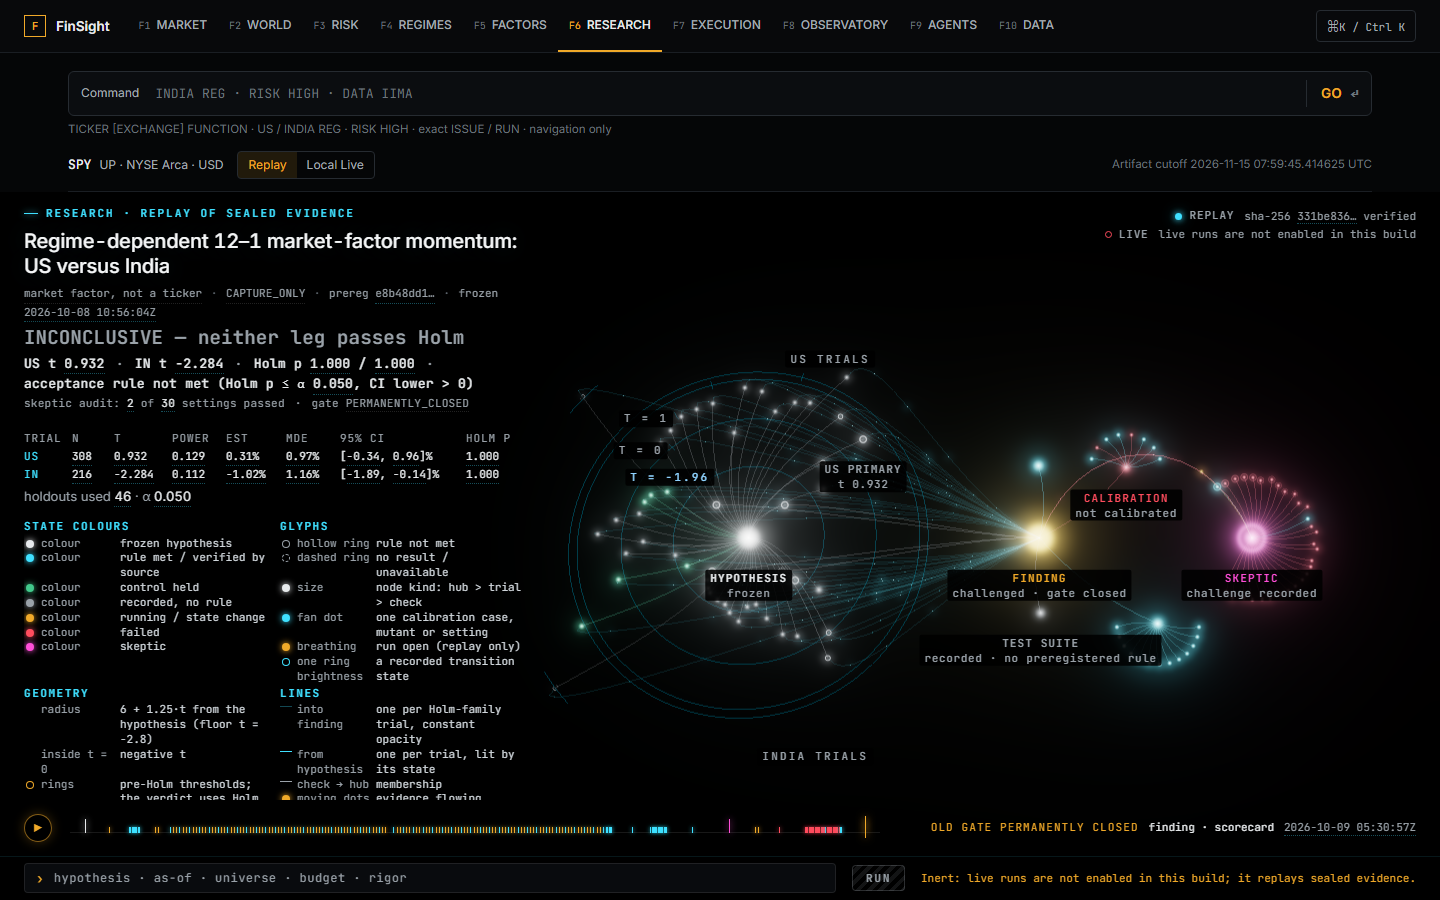
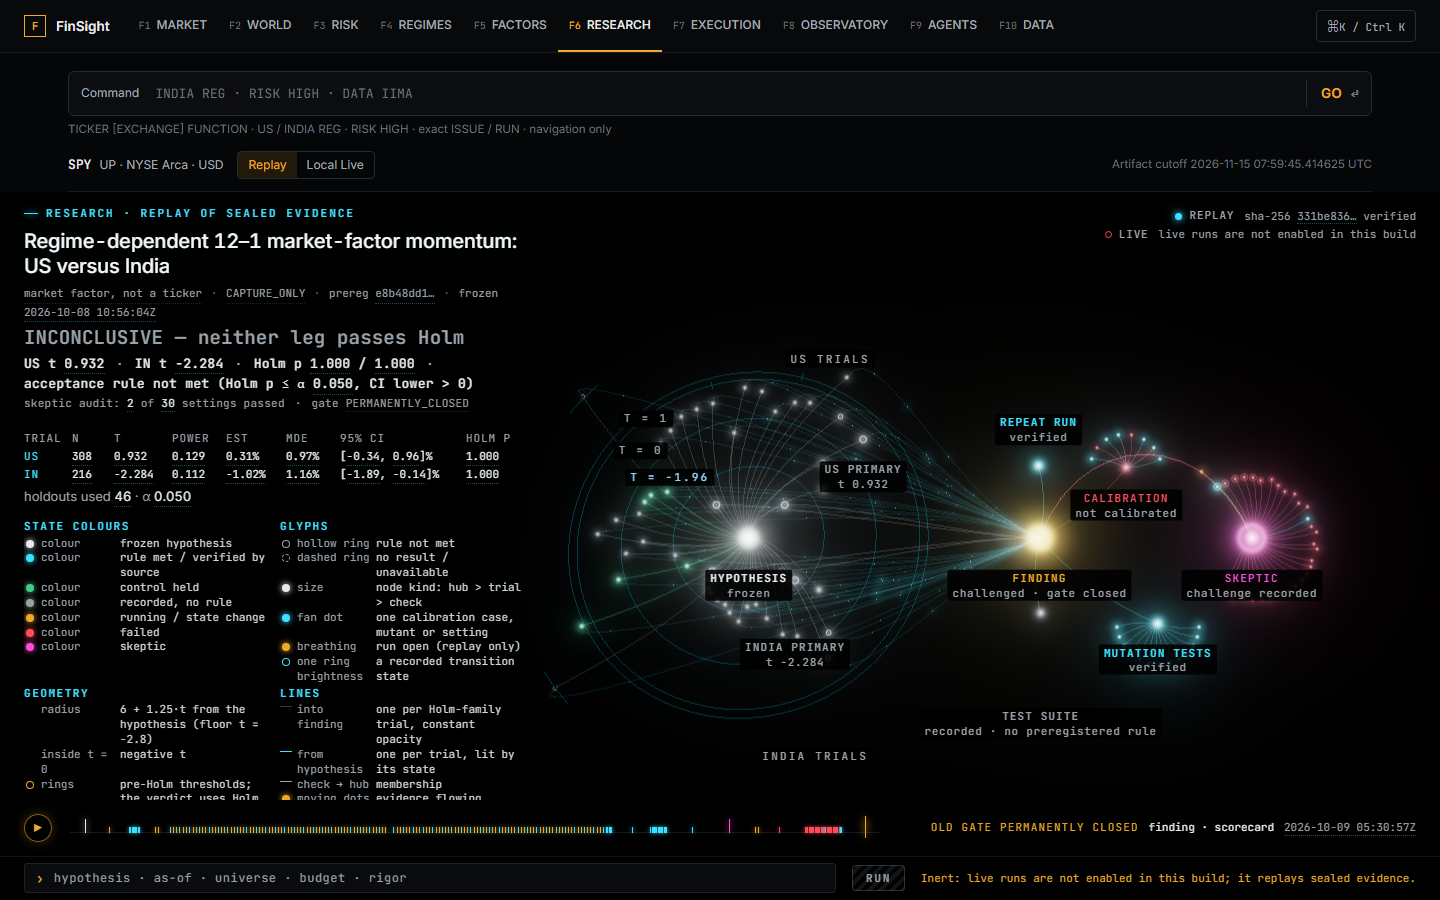
fix(research): nudge colliding labels before hiding them
Collision handling hid the India primary label at 1440 because its pin
sits just below the hypothesis. A label now tries small vertical offsets
first and is hidden only if none fits, so both primaries, the repeat run
and the mutation tests stay labelled. Pins stay at their measured radius.

diff --git a/frontend-v2/src/research/ResearchPage.tsx b/frontend-v2/src/research/ResearchPage.tsx
@@ -115,21 +115,35 @@ function declutter(els: (HTMLElement | null | undefined)[]) {
     ...document.querySelectorAll(".rs-mast, .rs-legend, .rs-status, .rs-hud"),
   ].map((e) => e.getBoundingClientRect());
   const vw = document.documentElement.clientWidth;
-  for (const el of els) {
-    if (!el) continue;
-    el.style.visibility = "visible";
-    const box = (el.firstElementChild as HTMLElement | null) ?? el;
-    const r = box.getBoundingClientRect();
-    if (!r.width) continue;
-    const hit = taken.some(
+  const clear = (r: DOMRect) =>
+    r.left >= 4 &&
+    r.right <= vw - 4 &&
+    !taken.some(
       (t) =>
         r.left < t.right + 10 &&
         r.right > t.left - 10 &&
         r.top < t.bottom + 10 &&
         r.bottom > t.top - 10,
     );
-    if (hit || r.left < 4 || r.right > vw - 4) el.style.visibility = "hidden";
-    else taken.push(r);
+  for (const el of els) {
+    if (!el) continue;
+    el.style.visibility = "visible";
+    el.style.translate = "";
+    const box = (el.firstElementChild as HTMLElement | null) ?? el;
+    const base = box.getBoundingClientRect();
+    if (!base.width) continue;
+    // Try small vertical nudges before giving up, so a high-priority label (a primary trial's t)
+    // moves out of the way instead of disappearing. The pin itself stays at its measured radius.
+    const step = base.height + 6;
+    const offset = [0, step, -step, 2 * step, -2 * step].find((dy) =>
+      clear(new DOMRect(base.x, base.y + dy, base.width, base.height)),
+    );
+    if (offset === undefined) {
+      el.style.visibility = "hidden";
+      continue;
+    }
+    if (offset) el.style.translate = `0 ${offset}px`;
+    taken.push(new DOMRect(base.x, base.y + offset, base.width, base.height));
   }
 }
 
